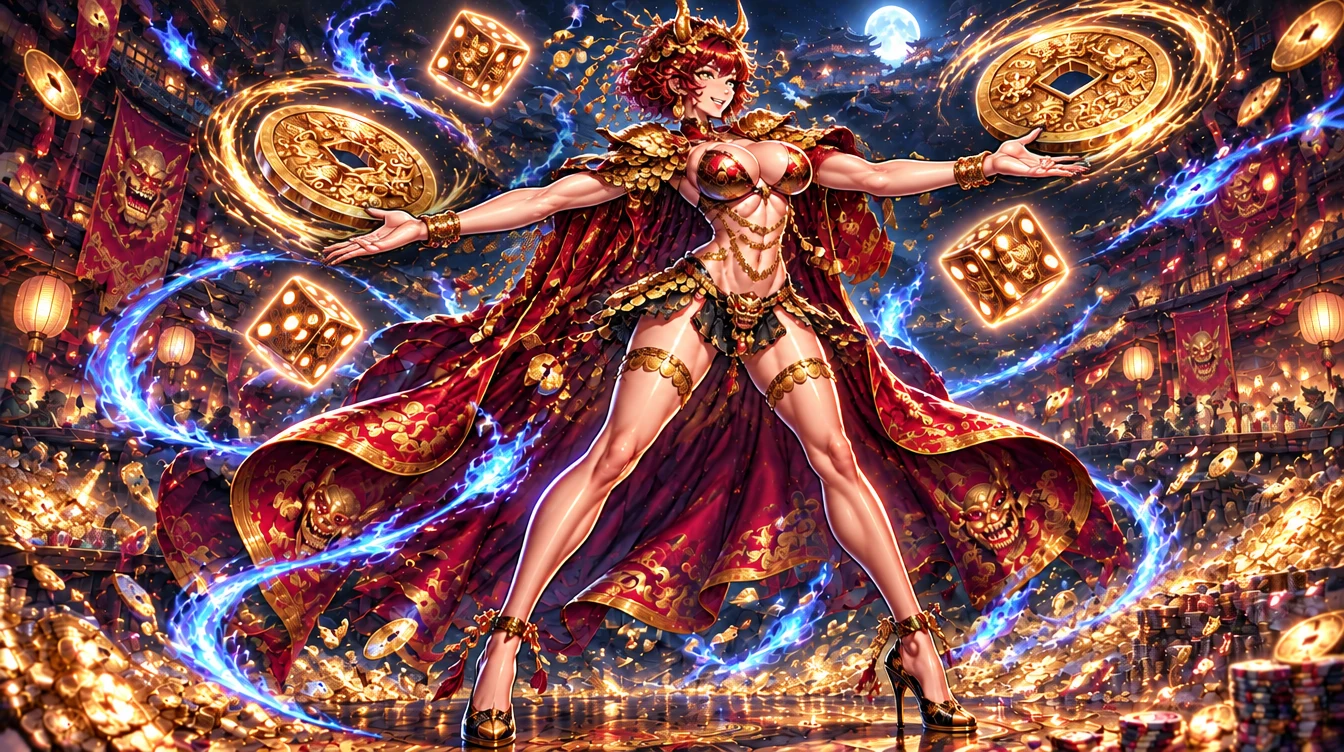
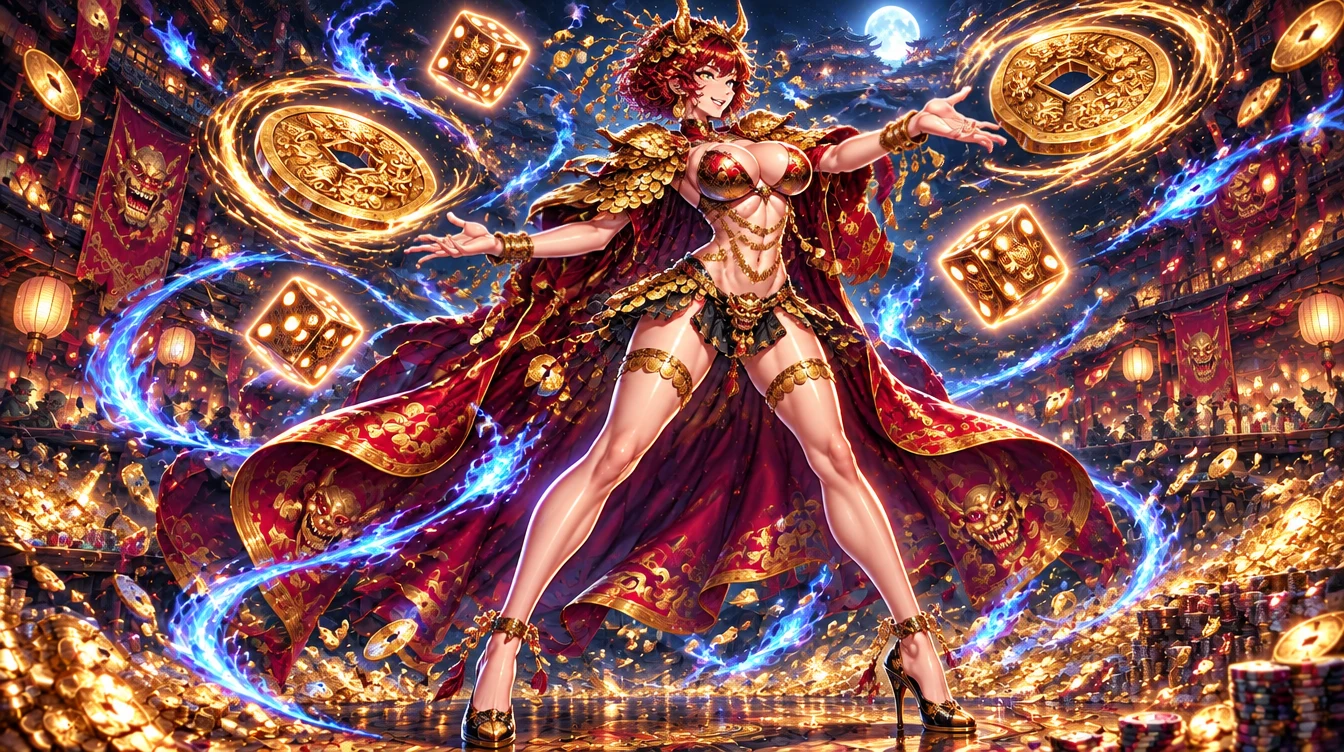
그믐: 금화 각성 일러스트 팔 길이 직접 조정(왼 1.8·오른 1.1), 크레딧 쓰기 전 확인·성공 가능성 규칙 추가
Claude-Session: https://claude.ai/code/session_01X3WCR5nTXLkTaQuYbPMPiQ

diff --git a/game-design/art/그림_규칙.md b/game-design/art/그림_규칙.md
@@ -40,6 +40,11 @@
   2. **크레딧이 드는 고침**(다시 그리기·EDIT)은 **바로 하지 않는다.** 먼저 사용자에게 ① 어느 그림이 ② 어떤 규칙에서 얼마나 벗어났는지(잰 값) ③ 고치는 방법 ④ 드는 크레딧과 남은 크레딧을 알리고, **사용자가 확인한 뒤에** 진행한다.
   3. 여러 장을 한 번에 그릴 때도 같다: 다 그린 뒤 벗어난 것을 모아 보고하고, 크레딧이 드는 고침은 확인을 받는다.
 - **발밑 구름은 필수 아님 (사용자 11/27)**: 게임 그림 밑 흰 구름은 처음 달래 게임 그림(「구름 위 활 쏘는 자세」, 구름 위 탑 이야기)에서 이어 온 버릇이고, 「구름 위에 서서 두 발 딛기」 규칙은 11/27에 지움. 이제 발밑은 자세에 맞게 자유(구름·자기 소품 위·아무것도 없음). 지시문에 "standing on a cloud"를 습관처럼 넣지 않는다.
+- **크레딧 쓰기 전 확인과 성공 가능성 (사용자 11/27 「왜 규칙을 자꾸 어겨서 크레딧 낭비하냐」)**:
+  1. 크레딧을 쓰는 모든 그리기(새로 그리기·고쳐 그리기)는 사용자가 「진행」이라고 한 뒤에만 한다.
+  2. 확인받을 때 성공 가능성을 함께 말한다. 길이·위치·픽셀처럼 **정확한 숫자를 맞추는 고침은 AI가 거의 못 지킨다**(월향 앞팔 1.6 그대로, 금화 일러스트 왼팔 45픽셀 → 85픽셀). 그런 고침에는 AI 고쳐 그리기를 권하지 않는다.
+  3. 팔·칼 길이 같은 고침은 **크레딧 없는 직접 편집**으로 한다. 배경이 꽉 찬 일러스트는 오려 붙이지 말고 **팔 둘레를 부드럽게 밀어 늘리는 방식**(손·팔찌·주변 배경을 함께 이동, 금화 각성 일러스트에서 이음새 없이 성공)을 쓴다.
+  4. 그린 직후 규칙 목록(노출·비율·팔·손 크기·손가락·무기 끊김·칼 길이)을 하나씩 대조해 처음 그림의 실수를 놓치지 않는다.
 - **기준 캐릭터 최우선 (2순위, 사용자 11/27 00절로 올림)**: 그 캐릭터의 **얼굴·체형**은 기준 모습(원본·각성 그림)을 지킨다. 각성2·스킨도 얼굴은 같은 사람이어야 한다(직녀 각성2에서 얼굴이 다른 사람이 되어 다시 그림). **머리 모양·머리색·특징 소품·옷·자세는 디자인이 다양하도록 자유롭게 바꿔도 된다**(사용자 11/27). 단, 무기를 바꾸면 공격 이펙트·무기 끝 좌표를 개발방에 함께 넘긴다.
 - **그릴 때마다 넣는 것 (3순위, 사용자 11/27 00절로 올림)**: 새로 그릴 때도 고쳐 그릴 때(EDIT)도 빠짐없이
   1. 극화체 기준 두 장(T3_front·S4)

diff --git a/game-design/art/새캐릭터2/README.md b/game-design/art/새캐릭터2/README.md
@@ -54,3 +54,4 @@
 - 사용자 추가 지적(엄지가 깨져 보임, 치마를 조금 더 길게) → EDIT fee1609a(0.75크레딧): 엄지를 검지 옆에서 위로 튕기는 모양으로, 뒤 치마를 엉덩이 아래 끝까지, 윙크. 비율은 그대로(돌아보는 자세 기준 약 9.5머리). 게임 파일 aw34p를 이 그림으로 바꿈.
 - 사용자: 손가락이 여전히 엄지를 잡고 있음 → B안(검지 끝에서 엽전 돌리기) + 치마를 엉덩이 아래 선까지 + 허벅지 뒤 세로 장식(사용자 노란 선) → EDIT 4c7aa0b4(0.75크레딧): 검지 끝에 엽전이 팽이처럼 돎, 치마가 엉덩이를 덮음, 허벅지 뒤로 무릎 위까지 내려오는 좁은 진홍 비단 띠 2줄(금 테두리·작은 엽전 줄·끝 술). 게임 파일 aw34p 교체. 이펙트 나오는 곳 = 검지 끝 엽전.
 - **확정(사용자 11/27)**: 금화 각성 게임 그림 = 4c7aa0b4 (치마 끝은 수평이지만 엉덩이를 덮어 그대로 확정).
+- 금화 각성 일러스트 aw34 (11/27 사용자 「왼팔 1.8·오른팔 1.1」): 7eae7ae2(손 커짐)·27f6c589(왼팔 2.55)는 쓰지 않음. 고치기 전 9c0549cd에서 **크레딧 없이** 팔 부분만 부드럽게 늘림(손·팔찌·주변 배경을 함께 밀어 이음새 없음): 왼팔 약 1.6→1.8, 오른팔 약 0.9→1.1머리. 손 크기 그대로.
